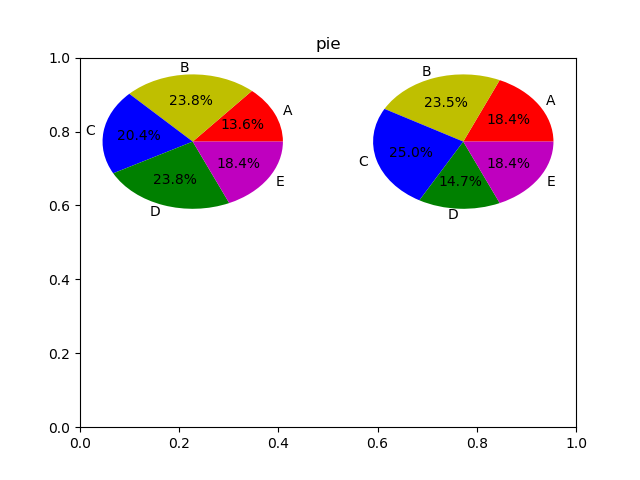
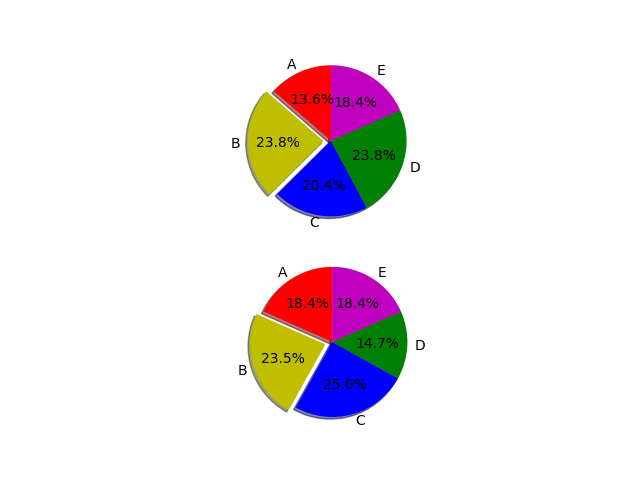
Site updated: 2019-11-01 22:06:12

diff --git a/2019/10/27/Tech_learning/data-visualization/index.html b/2019/10/27/Tech_learning/data-visualization/index.html
@@ -19,7 +19,7 @@
 <meta property="og:description" content="开始学习数据可视化，在此记录，目前主要是先学Python中的matplotlib这个包，这个包和MATLAB中的作图很相似，具有很高的自定义性，等到这个学习的比较深入后再考虑了解拓展其他工具的作图。  目录 1. 基础画图 2. 画图进阶  第一部分：基础画图">
 <meta property="og:locale" content="Chinese">
 <meta property="og:image" content="https://genening.github.io/gallery/thumbnail/data_visualization.jpg">
-<meta property="og:updated_time" content="2019-11-01T13:49:56.574Z">
+<meta property="og:updated_time" content="2019-11-01T14:05:58.773Z">
 <meta name="twitter:card" content="summary">
 <meta name="twitter:title" content="data_visualization">
 <meta name="twitter:description" content="开始学习数据可视化，在此记录，目前主要是先学Python中的matplotlib这个包，这个包和MATLAB中的作图很相似，具有很高的自定义性，等到这个学习的比较深入后再考虑了解拓展其他工具的作图。  目录 1. 基础画图 2. 画图进阶  第一部分：基础画图">
@@ -151,7 +151,7 @@
                 <span class="level-item has-text-grey">
                     
                     
-                    13 minutes read (About 1955 words)
+                    13 minutes read (About 2001 words)
                 </span>
                 
                 
@@ -197,11 +197,11 @@
 <p>感悟：在这里最好指定bar的宽度，否则默认的宽度画图非常奇怪，另外，如果要同时画多个柱形图在一个刻度上，需要指定好偏移度，避免bar相互重合，具体的参数可以看上面的设置。</p>
 </blockquote>
 <h3 id="4-饼图"><a href="#4-饼图" class="headerlink" title="4. 饼图"></a>4. 饼图</h3><p>代码如下：</p>
-<figure class="highlight xl hljs"><table><tr><td class="gutter"><pre><span class="line">1</span><br><span class="line">2</span><br><span class="line">3</span><br><span class="line">4</span><br><span class="line">5</span><br><span class="line">6</span><br><span class="line">7</span><br><span class="line">8</span><br><span class="line">9</span><br><span class="line">10</span><br><span class="line">11</span><br><span class="line">12</span><br><span class="line">13</span><br><span class="line">14</span><br><span class="line">15</span><br><span class="line">16</span><br></pre></td><td class="code"><pre><span class="line"><span class="hljs-keyword">import</span> matplotlib</span><br><span class="line"><span class="hljs-keyword">import</span> matplotlib.pyplot <span class="hljs-keyword">as</span> plt</span><br><span class="line"><span class="hljs-keyword">import</span> numpy <span class="hljs-keyword">as</span> np</span><br><span class="line"></span><br><span class="line">x_data = (<span class="hljs-string">'A'</span>, <span class="hljs-string">'B'</span>, <span class="hljs-string">'C'</span>, <span class="hljs-string">'D'</span>, <span class="hljs-string">'E'</span>)</span><br><span class="line">y1_data = (<span class="hljs-number">20</span>, <span class="hljs-number">35</span>, <span class="hljs-number">30</span>, <span class="hljs-number">35</span>, <span class="hljs-number">27</span>)</span><br><span class="line">y2_data = (<span class="hljs-number">25</span>, <span class="hljs-number">32</span>, <span class="hljs-number">34</span>, <span class="hljs-number">20</span>, <span class="hljs-number">25</span>)</span><br><span class="line">colors = <span class="hljs-string">'r'</span>,<span class="hljs-string">'y'</span>,<span class="hljs-string">'b'</span>,<span class="hljs-string">'g'</span>,<span class="hljs-string">'m'</span></span><br><span class="line"></span><br><span class="line">fig = plt.figure()</span><br><span class="line">plt.<span class="hljs-built_in">title</span>(<span class="hljs-string">"pie"</span>)</span><br><span class="line">pie1 = fig.add_subplot(<span class="hljs-number">2</span>,<span class="hljs-number">2</span>,<span class="hljs-number">1</span>)</span><br><span class="line">pie1.pie(y1_data, colors=colors,labels=x_data, autopct=<span class="hljs-string">'%1.1f%%'</span>)</span><br><span class="line"># 参数：数据、颜色、标签、占比</span><br><span class="line">pie2 = fig.add_subplot(<span class="hljs-number">2</span>,<span class="hljs-number">2</span>,<span class="hljs-number">2</span>)</span><br><span class="line">pie2.pie(y2_data, colors=colors,autopct=<span class="hljs-string">'%1.1f%%'</span>, labels=x_data)</span><br></pre></td></tr></table></figure>
+<figure class="highlight nix hljs"><table><tr><td class="gutter"><pre><span class="line">1</span><br><span class="line">2</span><br><span class="line">3</span><br><span class="line">4</span><br><span class="line">5</span><br><span class="line">6</span><br><span class="line">7</span><br><span class="line">8</span><br><span class="line">9</span><br><span class="line">10</span><br><span class="line">11</span><br><span class="line">12</span><br><span class="line">13</span><br><span class="line">14</span><br><span class="line">15</span><br><span class="line">16</span><br><span class="line">17</span><br><span class="line">18</span><br><span class="line">19</span><br><span class="line">20</span><br><span class="line">21</span><br><span class="line">22</span><br></pre></td><td class="code"><pre><span class="line"><span class="hljs-built_in">import</span> matplotlib</span><br><span class="line"><span class="hljs-built_in">import</span> matplotlib.pyplot as plt</span><br><span class="line"><span class="hljs-built_in">import</span> numpy as np</span><br><span class="line"></span><br><span class="line"><span class="hljs-attr">x_data</span> = ('A', 'B', 'C', 'D', 'E')</span><br><span class="line"><span class="hljs-attr">y1_data</span> = (<span class="hljs-number">20</span>, <span class="hljs-number">35</span>, <span class="hljs-number">30</span>, <span class="hljs-number">35</span>, <span class="hljs-number">27</span>)</span><br><span class="line"><span class="hljs-attr">y2_data</span> = (<span class="hljs-number">25</span>, <span class="hljs-number">32</span>, <span class="hljs-number">34</span>, <span class="hljs-number">20</span>, <span class="hljs-number">25</span>)</span><br><span class="line"><span class="hljs-attr">colors</span> = 'r','y','b','g','m'</span><br><span class="line"><span class="hljs-attr">explode</span> = (<span class="hljs-number">0</span>, <span class="hljs-number">0.1</span>, <span class="hljs-number">0</span>, <span class="hljs-number">0</span>,<span class="hljs-number">0</span>)  <span class="hljs-comment"># only "explode" the 2nd slice (i.e. 'E')</span></span><br><span class="line"></span><br><span class="line"><span class="hljs-attr">fig</span> = plt.figure()</span><br><span class="line"><span class="hljs-comment"># plt.title("pie")</span></span><br><span class="line"><span class="hljs-attr">pie1</span> = fig.add_subplot(<span class="hljs-number">2</span>,<span class="hljs-number">1</span>,<span class="hljs-number">1</span>)</span><br><span class="line">pie1.pie(y1_data, <span class="hljs-attr">colors=colors,shadow=True,</span> <span class="hljs-attr">startangle=90,</span> <span class="hljs-attr">explode=explode,</span> <span class="hljs-attr">labels=x_data,</span> <span class="hljs-attr">autopct='%1.1f%%')</span></span><br><span class="line">pie1.axis('equal')  <span class="hljs-comment"># set the pie to be a circle.</span></span><br><span class="line"></span><br><span class="line"><span class="hljs-attr">pie2</span> = fig.add_subplot(<span class="hljs-number">2</span>,<span class="hljs-number">1</span>,<span class="hljs-number">2</span>)</span><br><span class="line">pie2.pie(y2_data, <span class="hljs-attr">colors=colors,shadow=True,</span> <span class="hljs-attr">startangle=90,</span> <span class="hljs-attr">explode=explode,</span> <span class="hljs-attr">autopct='%1.1f%%',</span> <span class="hljs-attr">labels=x_data)</span></span><br><span class="line">pie2.axis('equal')  <span class="hljs-comment"># set the pie to be a circle.</span></span><br><span class="line"></span><br><span class="line">fig.savefig(<span class="hljs-string">"pie.png"</span>)</span><br><span class="line">plt.show()</span><br></pre></td></tr></table></figure>
 
 <p>图片输出：<br><img src="/2019/10/27/Tech_learning/data-visualization/pie.png" alt="pie"><br><img src="/2019/10/27/Tech_learning/data-visualization/pie2.png" alt="pie2"></p>
 <blockquote>
-<p>感悟：这个饼状图是真的丑，颜色的透明度没有办法设置，而且默认不是圆形的，看起来实在难看，可以考虑有没有替代的方案。</p>
+<p>感悟：这个饼状图是真的丑，颜色的透明度没有办法设置，而且默认不是圆形的，看起来实在难看，可以考虑有没有替代的方案。&gt;有.axis(‘equal’)这个参数可以设置为圆形。</p>
 </blockquote>
 <h3 id="补充"><a href="#补充" class="headerlink" title="补充"></a>补充</h3><ol>
 <li>线条标记种类：</li>

diff --git a/categories/index.html b/categories/index.html
@@ -11,7 +11,7 @@
 
 
     <meta name="description" content="nothing is everything">
-<meta name="keywords" content="Linux文本操作,js学习,生活的诗,博客建设,Markdown,Try new thing,转录组,无参转录组实战,python基础,数据可视化,数据结构与算法">
+<meta name="keywords" content="生活的诗,Linux文本操作,js学习,博客建设,Markdown,Try new thing,无参转录组实战,转录组,python基础,数据结构与算法,数据可视化">
 <meta property="og:type" content="website">
 <meta property="og:title" content="Genening&#39;s blog">
 <meta property="og:url" content="https://genening.github.io/categories/index.html">

diff --git a/tags/index.html b/tags/index.html
@@ -11,7 +11,7 @@
 
 
     <meta name="description" content="nothing is everything">
-<meta name="keywords" content="Linux文本操作,js学习,生活的诗,博客建设,Markdown,Try new thing,转录组,无参转录组实战,python基础,数据可视化,数据结构与算法">
+<meta name="keywords" content="生活的诗,Linux文本操作,js学习,博客建设,Markdown,Try new thing,无参转录组实战,转录组,python基础,数据结构与算法,数据可视化">
 <meta property="og:type" content="website">
 <meta property="og:title" content="Genening&#39;s blog">
 <meta property="og:url" content="https://genening.github.io/tags/index.html">

diff --git a/categories/Tech-learning/index.html b/categories/Tech-learning/index.html
@@ -161,7 +161,7 @@
                 <span class="level-item has-text-grey">
                     
                     
-                    13 minutes read (About 1955 words)
+                    13 minutes read (About 2001 words)
                 </span>
                 
                 

diff --git a/index.html b/index.html
@@ -206,7 +206,7 @@
                 <span class="level-item has-text-grey">
                     
                     
-                    13 minutes read (About 1955 words)
+                    13 minutes read (About 2001 words)
                 </span>
                 
                 

diff --git a/tags/数据可视化/index.html b/tags/数据可视化/index.html
@@ -160,7 +160,7 @@
                 <span class="level-item has-text-grey">
                     
                     
-                    13 minutes read (About 1955 words)
+                    13 minutes read (About 2001 words)
                 </span>
                 
                 
